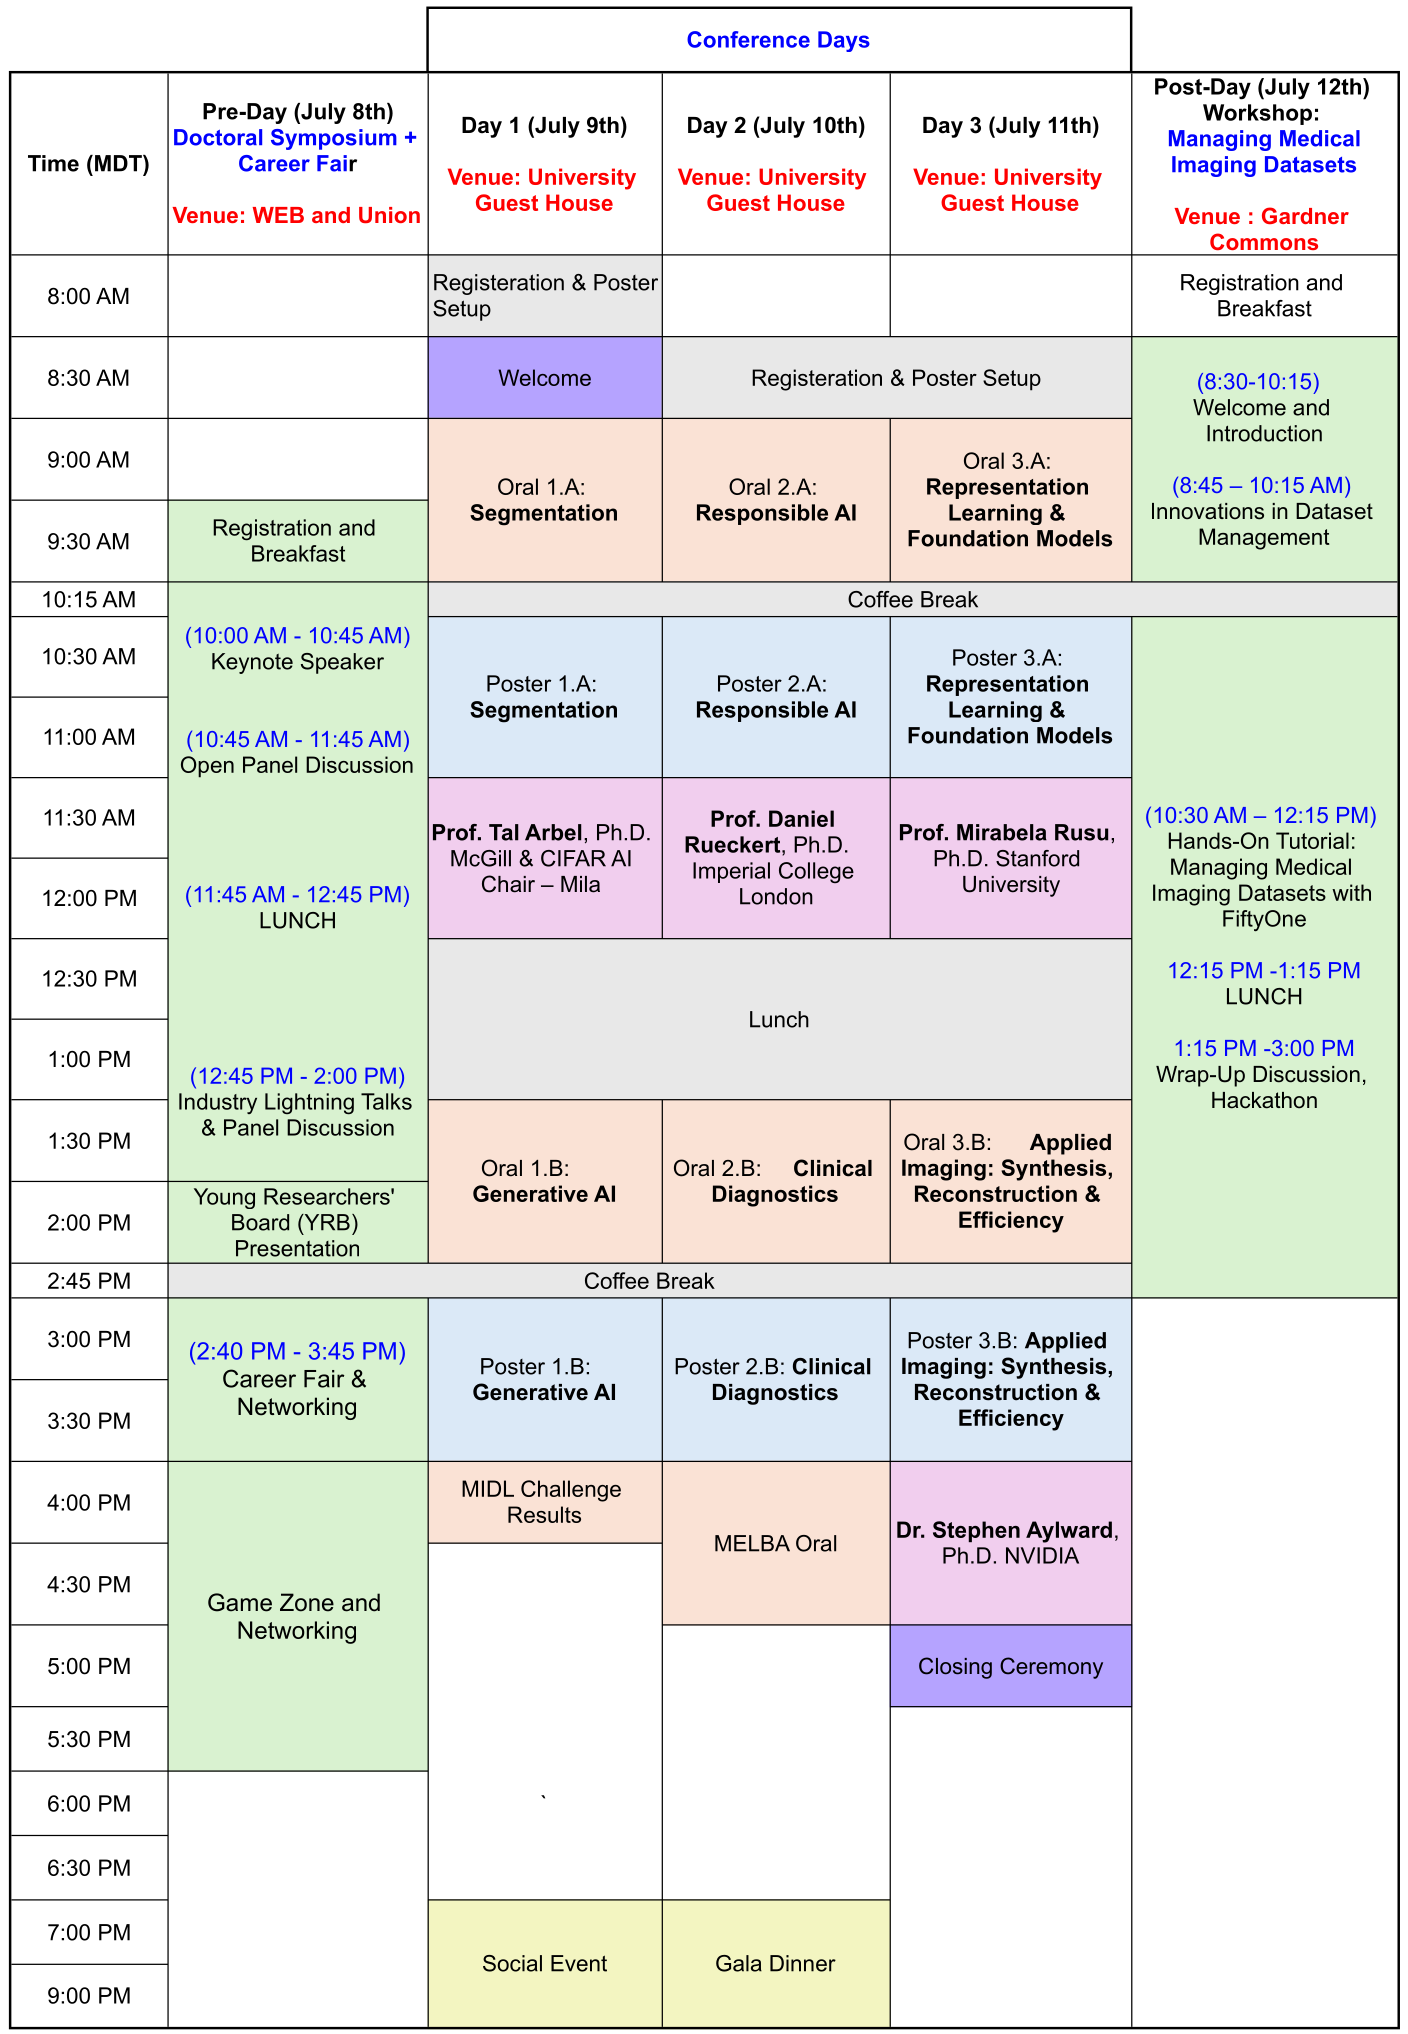
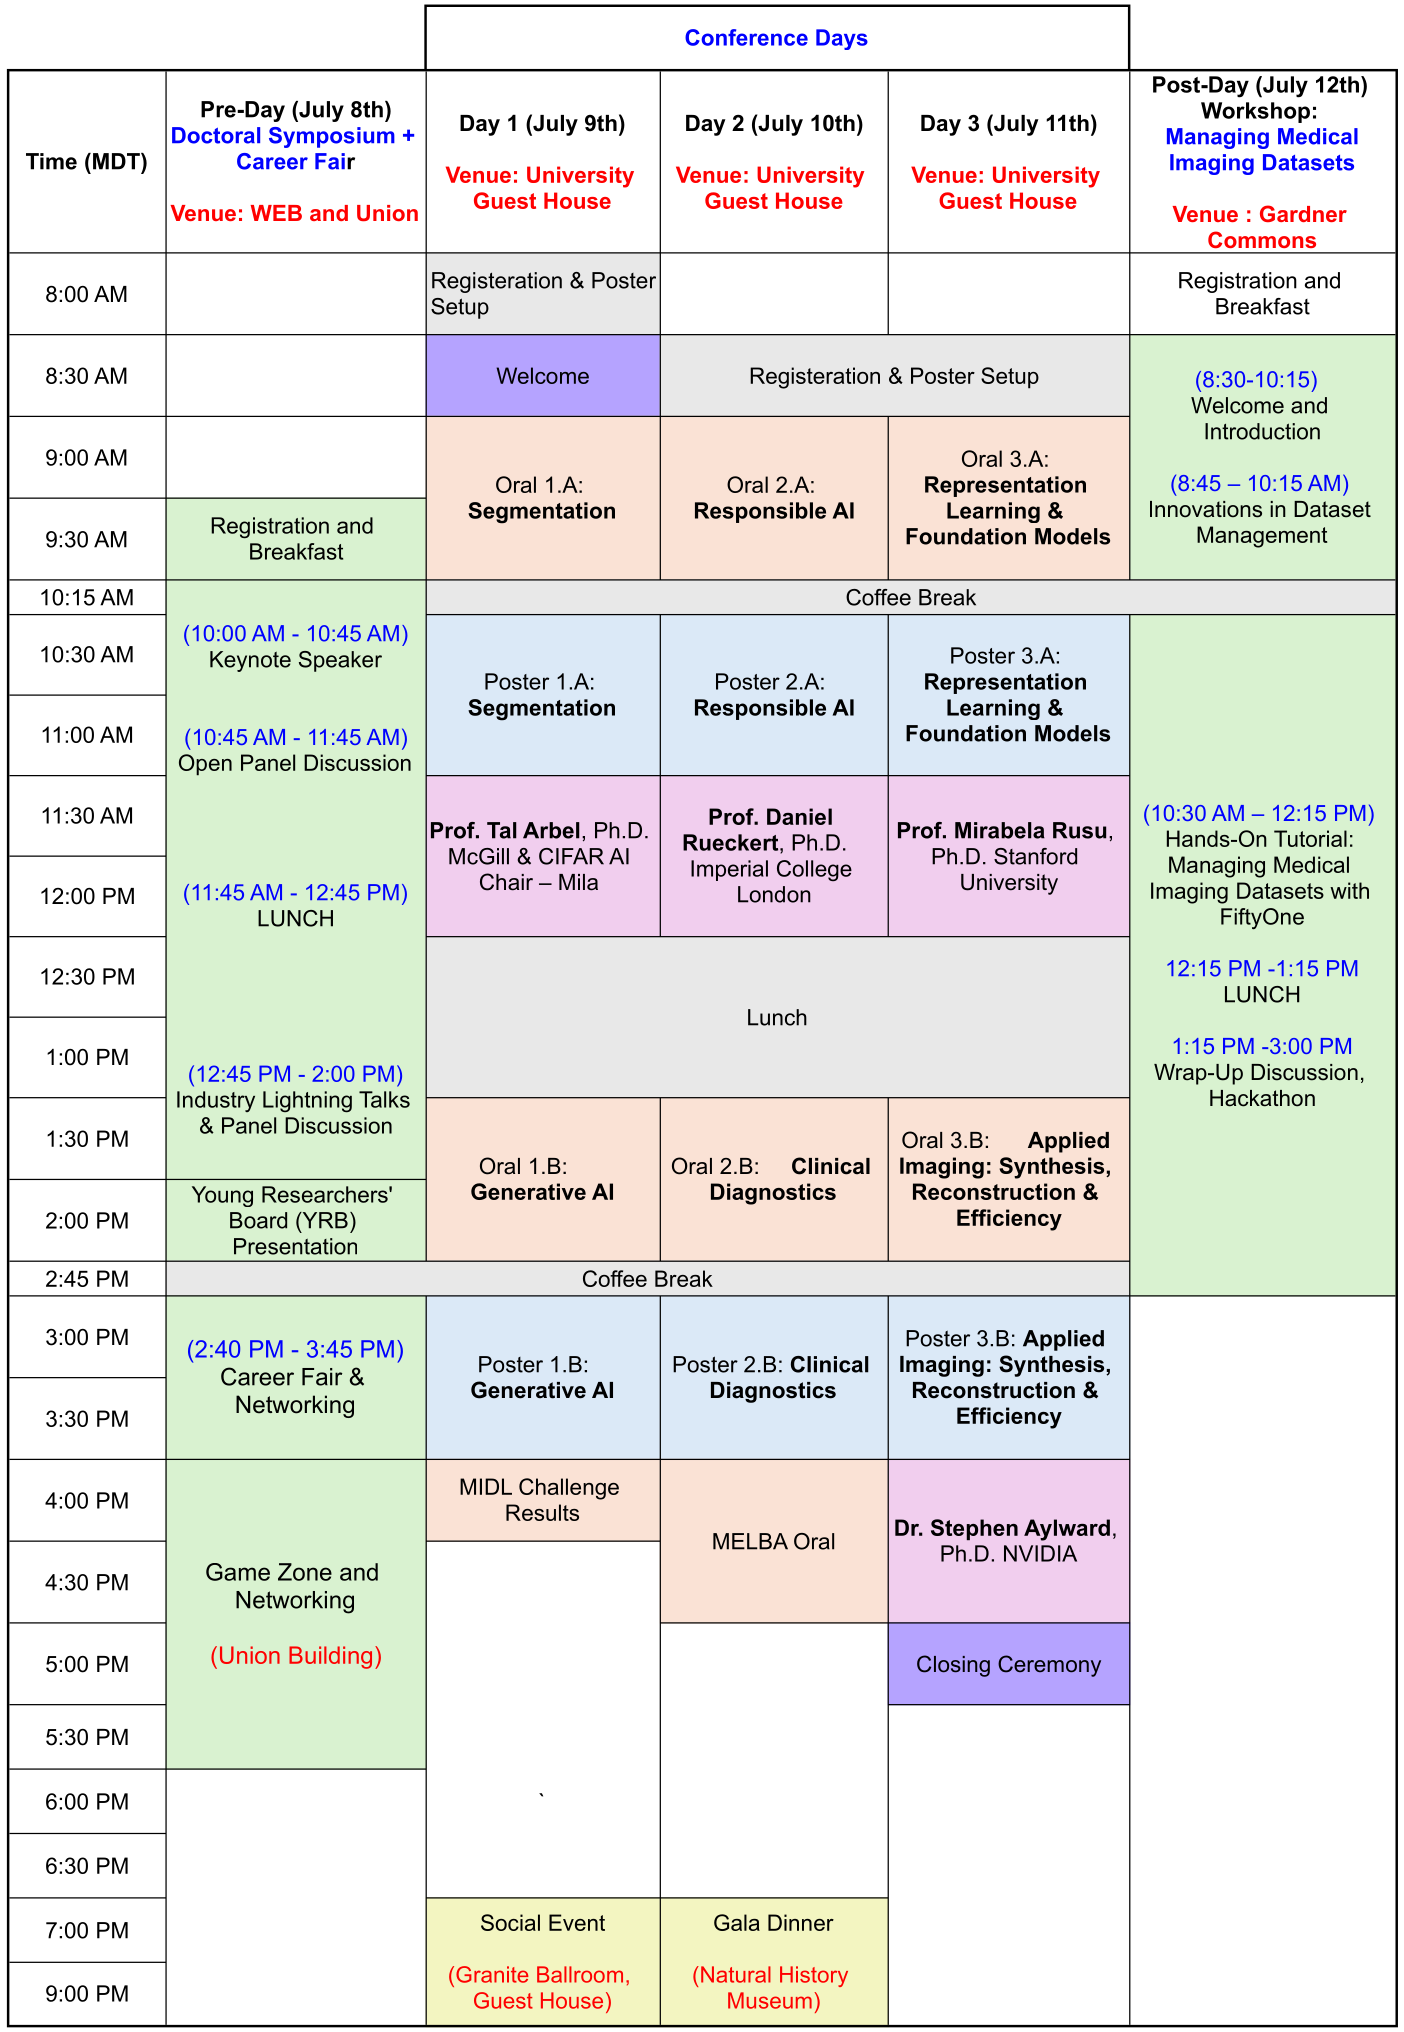
Adding Updated Program and Links for Gala Dinner

diff --git a/pages/program-glance.md b/pages/program-glance.md
@@ -14,6 +14,19 @@ Venue Addresses:
 
 [Google Maps Link](https://maps.app.goo.gl/hMyh6ZnUVqQSUpnQA) 
 
+## **Social Event**: Granite Ballroom, University Guest House
+
+*Full Address*: 110 Fort Douglas Blvd, Salt Lake City, UT 84113.
+
+[Google Maps Link](https://maps.app.goo.gl/hMyh6ZnUVqQSUpnQA) 
+
+## **Gala Dinner**: Natural History Museum of Utah(NHMU)
+
+*Full Address*: 301 Wakara Way, Salt Lake City, UT 84108
+
+[Google Maps Link](https://maps.app.goo.gl/F9TXfbcC2pBmCUGK6) 
+
+
 ## **Doctoral Symposium Venue**: Room #2230 and Lobby
 
 *Full Address*: Warnock Engineering Building, 72 S. Central Campus Drive, Salt Lake City, Utah 84112. 
